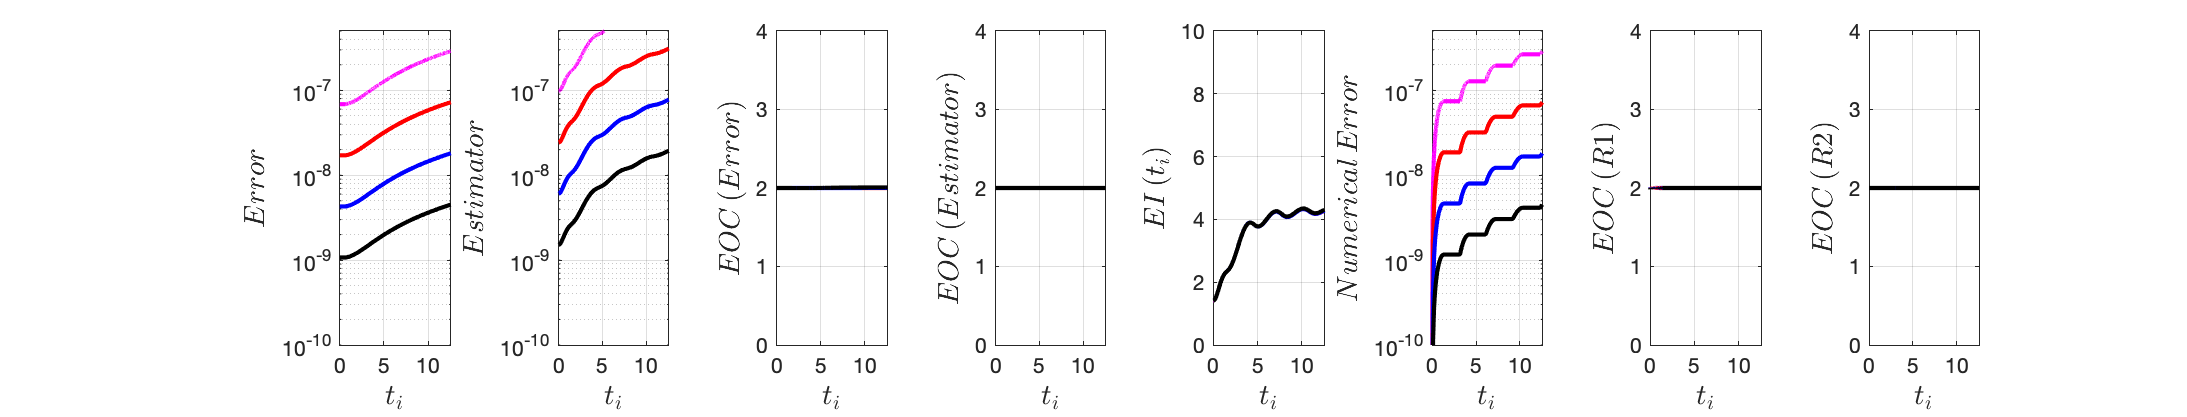
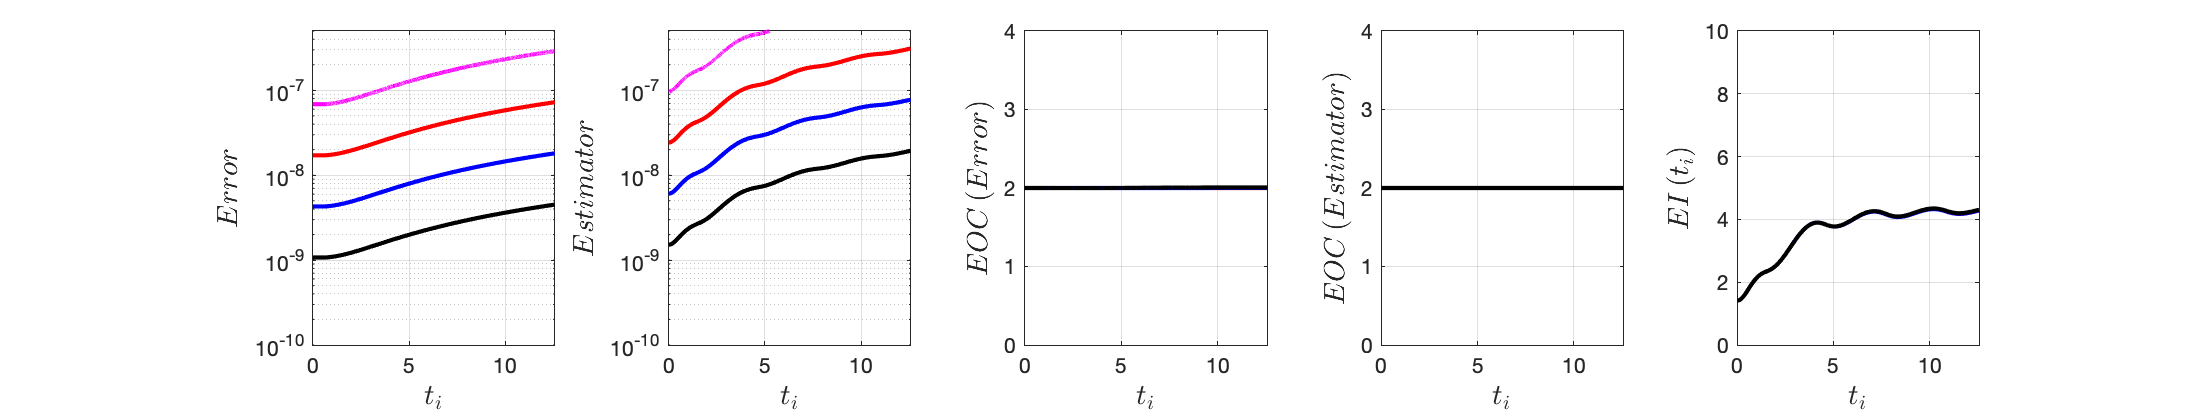
report

diff --git a/temporal_reconstruction_thesis_chapter.tex b/temporal_reconstruction_thesis_chapter.tex
@@ -1237,84 +1237,11 @@ In this section we discuss the findings from the numerical experiments.  Briefly
 Firstly,  both reconstructions are of optimal order in all numerical experiments in \S \ref{sec:num_exp}. This means that they both converged with the same order as the underlying error of the numerical scheme.  
 Additionally, they both lead to robust a posteriori estimates, in the sense that the estimate does not become infinite while the error is finite.
 
-The difference between them reconstructions is in terms of their efficiency.  The reconstruction in (\ref{eq_rec_paper}) led to a sharper estimate for the bound (\ref{eq_bound_test}) compared to the reconstructions from Defn.  \ref{defn_our_rec3}.  This can be seen from the Effectivity Index (last subplot on the right) in the figures in \S\ref{sec:num_exp}.  Notice that the lead contribution to the bound comes from $\mathcal{R}_2$ which is the right-most plot in each figure.
+The difference between the reconstructions is in terms of their efficiency.  The reconstruction in (\ref{eq_rec_paper}) led to a sharper estimate for the bound (\ref{eq_bound_test}) compared to the reconstructions from Defn.  \ref{defn_our_rec3}.  This can be seen from the Effectivity Index (last subplot on the right) in the figures in \S\ref{sec:num_exp}.  
 
-This difference in efficiency between the two reconstructions can be understood by substituting the exact solution in the coefficients.  It is enough to look at $\mathcal{R}_2$ because it is the lead contribution in both cases.  We start  from (\ref{defn_rec_paper_poly}).  We have that 
-\begin{equation}
-\mathcal{R}_2 = \rec{U}'\qp{t}- \rec{V}\qp{t},
-\end{equation}
-Starting from Defn. \ref{defn_rec_paper_poly}, looking at the interval $t\in\qb{t^{n}, t^{n+1/2}}$, we have that
-\begin{equation*}
-\begin{aligned}
-\rec{V}\qp{t}=	& V^{n-1/2}
-+\qp{\frac{1}{4}U^{n+1}-U^n-\frac{1}{4}U^{n-1}}\qp{t-t^{n-1/2}}
--\frac{1}{4\Delta t}\qp{U^{n+1}-U^{n-1}}\qp{t-t^{n-1/2}}^2
-\end{aligned}
-\end{equation*}
-and 
-\begin{equation*}
-\begin{aligned}
-\rec{U}'\qp{t}=	-\frac{1}{4}V^{n+3/2}+V^{n+1/2}+\frac{1}{4}V^{n-1/2}
-+\frac{1}{2\Delta t}\qp{V^{n+3/2}-V^{n-1/2}}\qp{t-t^{n}}.
-\end{aligned}
-\end{equation*}
-\subsection{$\qp{t^n, t^{n+1/2}}$}
-\subsubsection{constants}
-\begin{equation*}
-\begin{aligned}
-\text{Defn. \ref{defn_rec_paper_poly}: }&\frac{\Delta t}{4}U^{n+1}-\frac{3\Delta t}{4}U^n. \\
-\text{Defn. \ref{defn_our_rec3}: }&-\frac{\Delta t}{2}U^{n}.
-\end{aligned}
-\end{equation*}
-
-\subsubsection{first order}
-\begin{equation*}
-\begin{aligned}
-\text{Defn. \ref{defn_rec_paper_poly}: }& -\qp{\frac{1}{4}U^{n+1}-U^n-\frac{1}{4}U^{n-1}} \frac{\Delta t}{2}+ 
- \qp{-\frac{3}{4}U^{n+1}+\frac{1}{2}U^n+\frac{1}{4}U^{n-1}}\qp{t-t^n},\\
- \text{Defn. \ref{defn_our_rec3}: }&  \qb{\qp{\frac{1}{2}+\frac{\Delta t^2}{8}}U^{n-1}+\frac{1}{2}U^n}\frac{\Delta t}{2}+
- \qb{\qp{\frac{1}{2}+\frac{\Delta t^2}{8}}U^{n-1}-\frac{1}{2}U^n}\qp{t-t^n}
-\end{aligned}
-\end{equation*}
-
-\subsubsection{second order}
-\begin{equation*}
-\begin{aligned}
-\text{Defn. \ref{defn_rec_paper_poly}: }& \frac{1}{4\Delta t}\qp{U^{n+1}-U^{n-1}}\qp{t-t^{n-1/2}}^2,\\
-\text{Defn. \ref{defn_our_rec3}: }&  \frac{1}{\Delta t}\qb{\frac{\Delta t^2}{8}\qp{U^{n}-U^{n-1}}+\frac{1}{2}\qp{U^{n+1}-U^{n-1}}}\qp{t-t^{n-1/2}}^2\\
-&+\frac{3}{\Delta t^2}\qb{-\frac{1}{2}\Delta t\qp{U^n-U^{n-1}}+\frac{\Delta t^2}{8}U^{n-1}}\qp{t-t^{n-1/2}}^2
-\end{aligned}
-\end{equation*}
-
-\subsection{$\qp{t^{n+1/2},t^{n+1}}$}
-\subsubsection{constants}
-\begin{equation*}
-\begin{aligned}
-\text{Defn. \ref{defn_rec_paper_poly}: }&\frac{\Delta t}{4}U^{n+1}+\frac{\Delta t}{4}U^n. \\
-\text{Defn. \ref{defn_our_rec3}: }&\frac{\Delta t}{2}U^{n}.
-\end{aligned}
-\end{equation*}
-
-
-\subsubsection{first order}
-\begin{equation*}
-\begin{aligned}
-\text{Defn. \ref{defn_rec_paper_poly}: }& \qp{\frac{1}{4}U^{n+2}-U^{n+1}-\frac{1}{4}U^{n}}\frac{\Delta t}{2}+\qp{-\frac{1}{4}U^{n+2}+\frac{1}{2}U^{n+1}-\frac{1}{4}U^{n}} \qp{t-t^n}\\
-\text{Defn. \ref{defn_our_rec3}: }&  -\qb{\qp{\frac{1}{2}+\frac{\Delta t^2}{8}}U^{n}+\frac{1}{2}U^{n+1}}\frac{\Delta t}{2}+
-\qb{\qp{-\frac{1}{2}+\frac{\Delta t^2}{8}}U^{n}+\frac{1}{2}U^{n+1}}\qp{t-t^n}
-\end{aligned}
-\end{equation*}
-\subsubsection{second order}
-\begin{equation*}
-\begin{aligned}
-\text{Defn. \ref{defn_rec_paper_poly}: }& \frac{1}{4\Delta t}\qp{U^{n+2}-U^{n}}\qp{t-t^{n+1/2}}^2,\\
-\text{Defn. \ref{defn_our_rec3}: }&  \frac{1}{\Delta t}\qb{\frac{\Delta t^2}{8}\qp{U^{n+1}-U^{n}}+\frac{1}{2}\qp{U^{n+2}-U^{n}}}\qp{t-t^{n+1/2}}^2\\
-&+\frac{3}{\Delta t^2}\qb{-\frac{1}{2}\Delta t\qp{U^{n+1}-U^{n}}+\frac{\Delta t^2}{8}U^{n}}\qp{t-t^{n+1/2}}^2
-\end{aligned}
-\end{equation*}
 
 \section{Conclusion}
-In this chapter we tested the reconstruction of \cite{georgoulis2016posteriori} against one derived using our framework in the context of a model problem given by (\ref{eq_model_problem}), discretized by a reformulated leap-frog scheme. We have found that both reconstructions lead to reliable, robust a posteriori estimates.  The difference between them is in terms of efficiency.  The reconstruciton from \cite{georgoulis2016posteriori} leads to a sharper bound compared to that presented in Defn. \ref{defn_our_rec3}, on account of the smaller constant in the leading order error term. 
+In this chapter we tested the reconstruction of \cite{georgoulis2016posteriori} against one derived using our framework in the context of a model problem given by (\ref{eq_model_problem}), discretized by a reformulated leap-frog scheme. We have found that both reconstructions lead to reliable, robust a posteriori estimates.  The difference between them is in terms of efficiency.  The reconstruction from \cite{georgoulis2016posteriori} leads to a sharper bound compared to that presented in Defn. \ref{defn_our_rec3}, on account of the smaller constant in the leading order error term. 
 
 
 \bibliography{apostfd_bibdesk}
